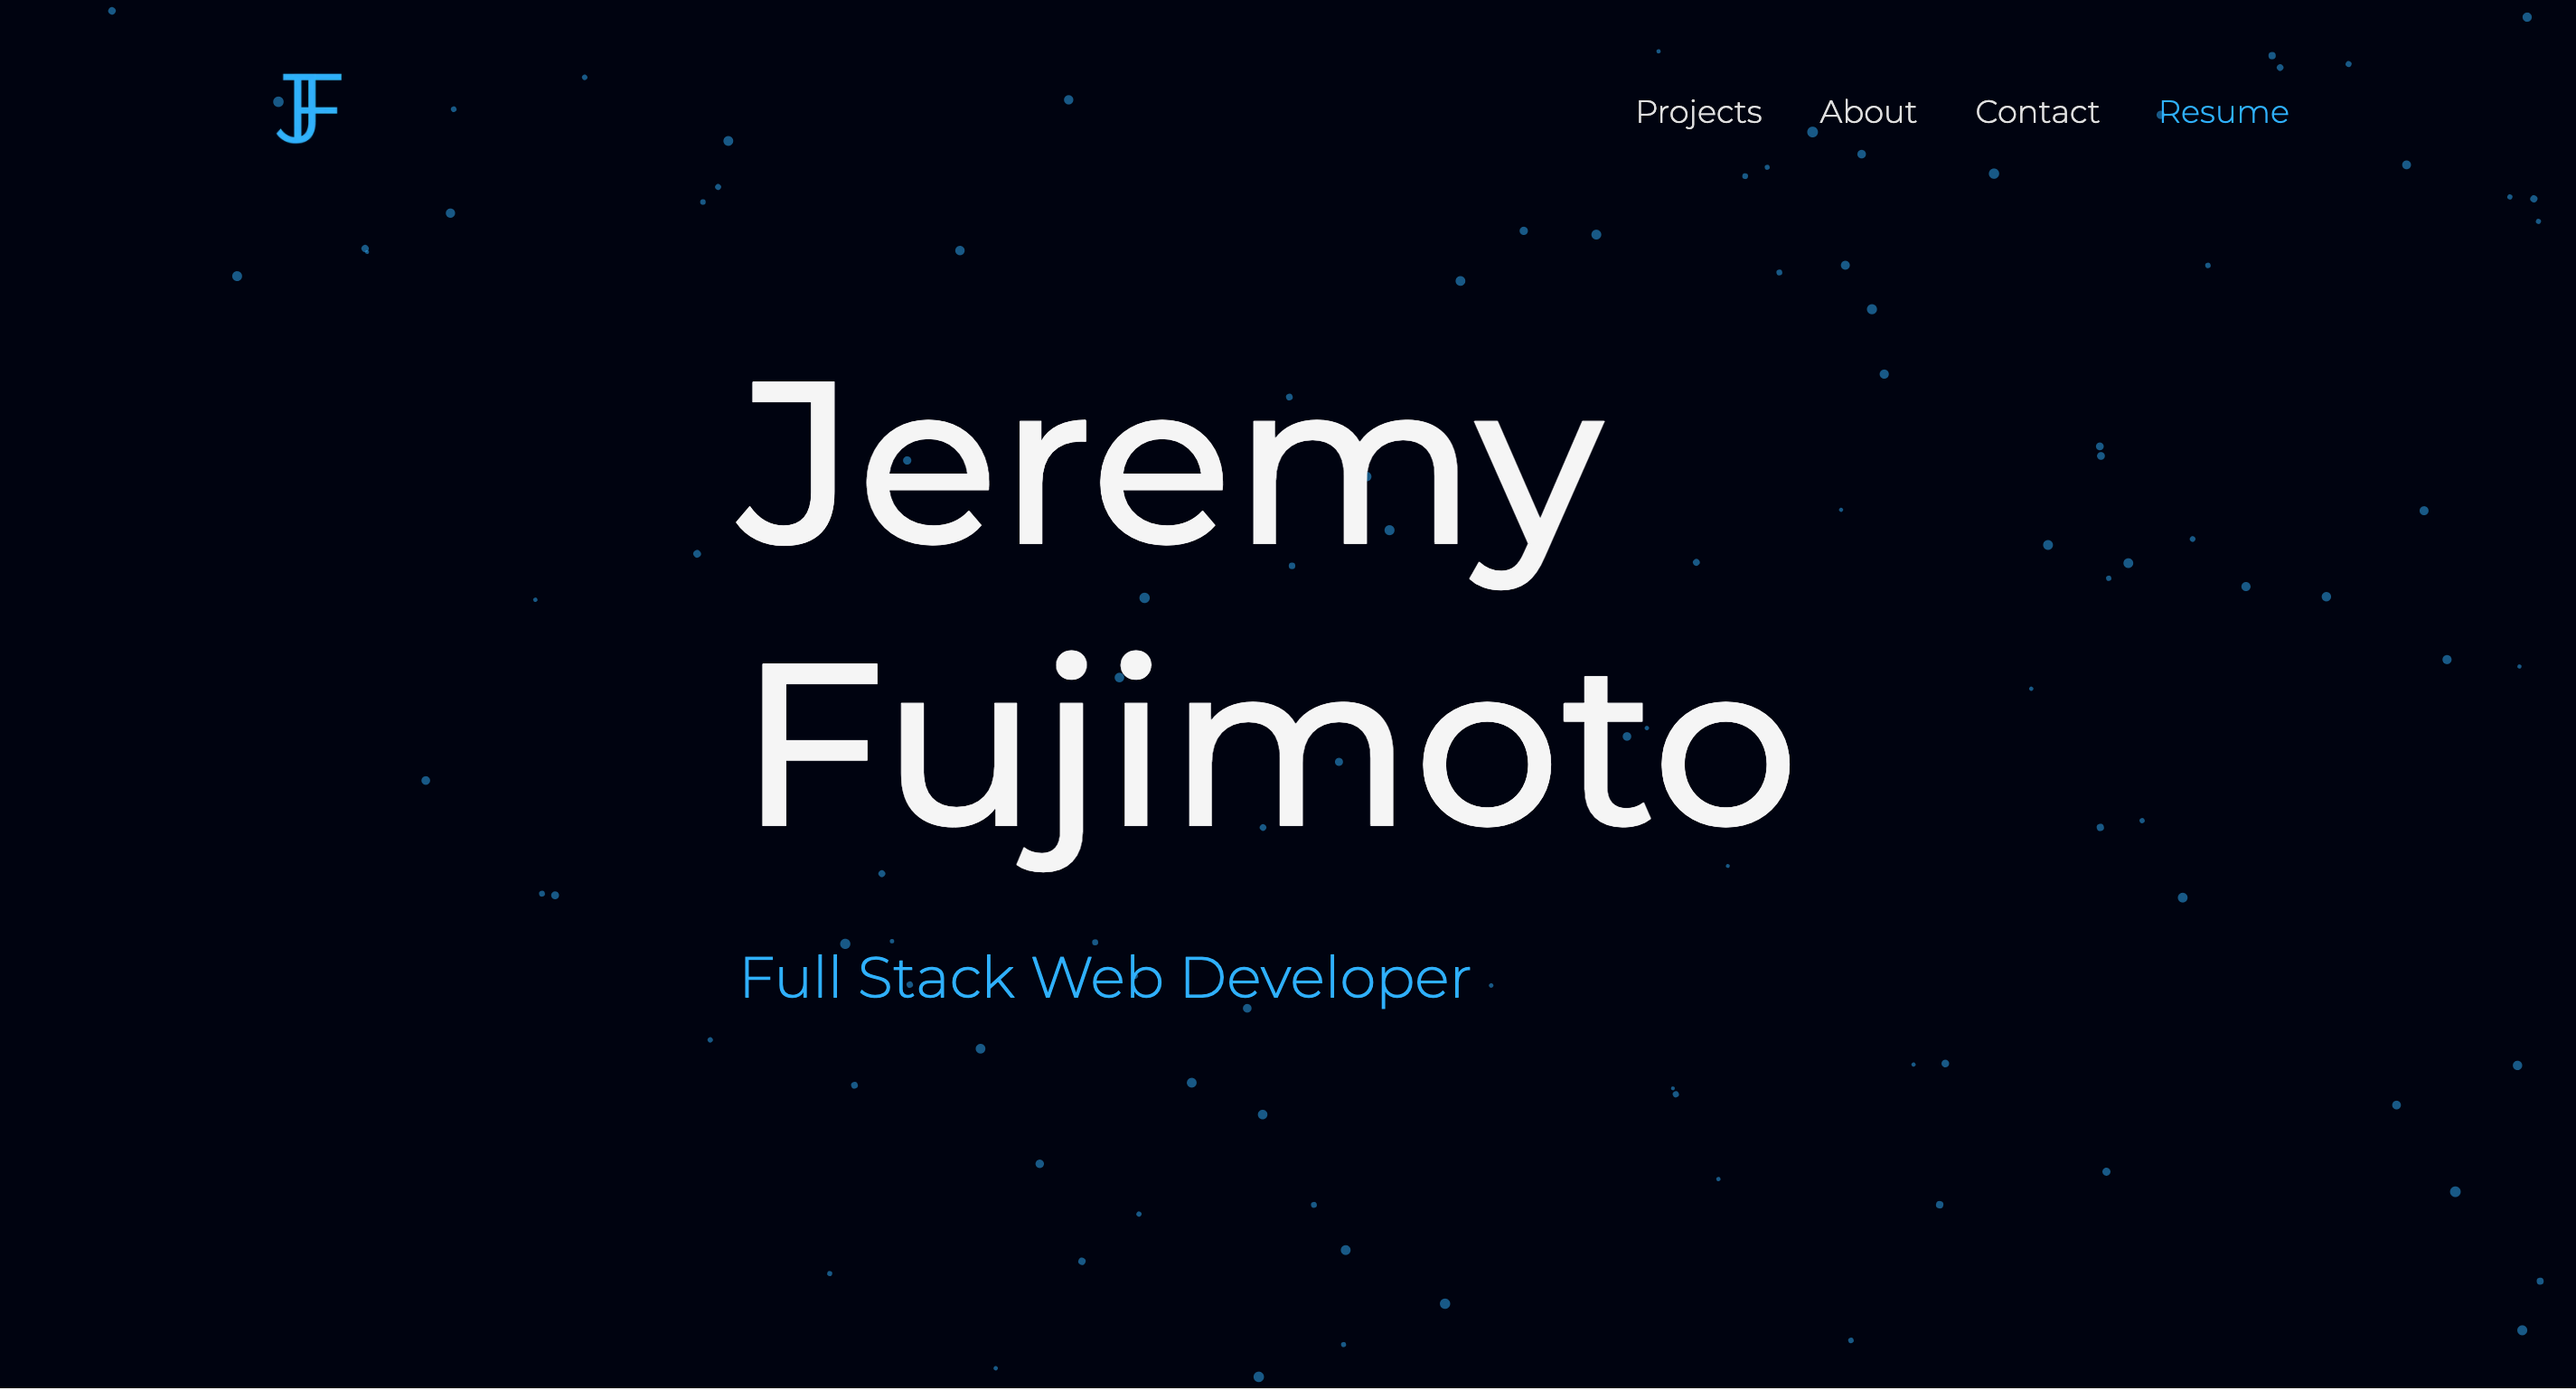
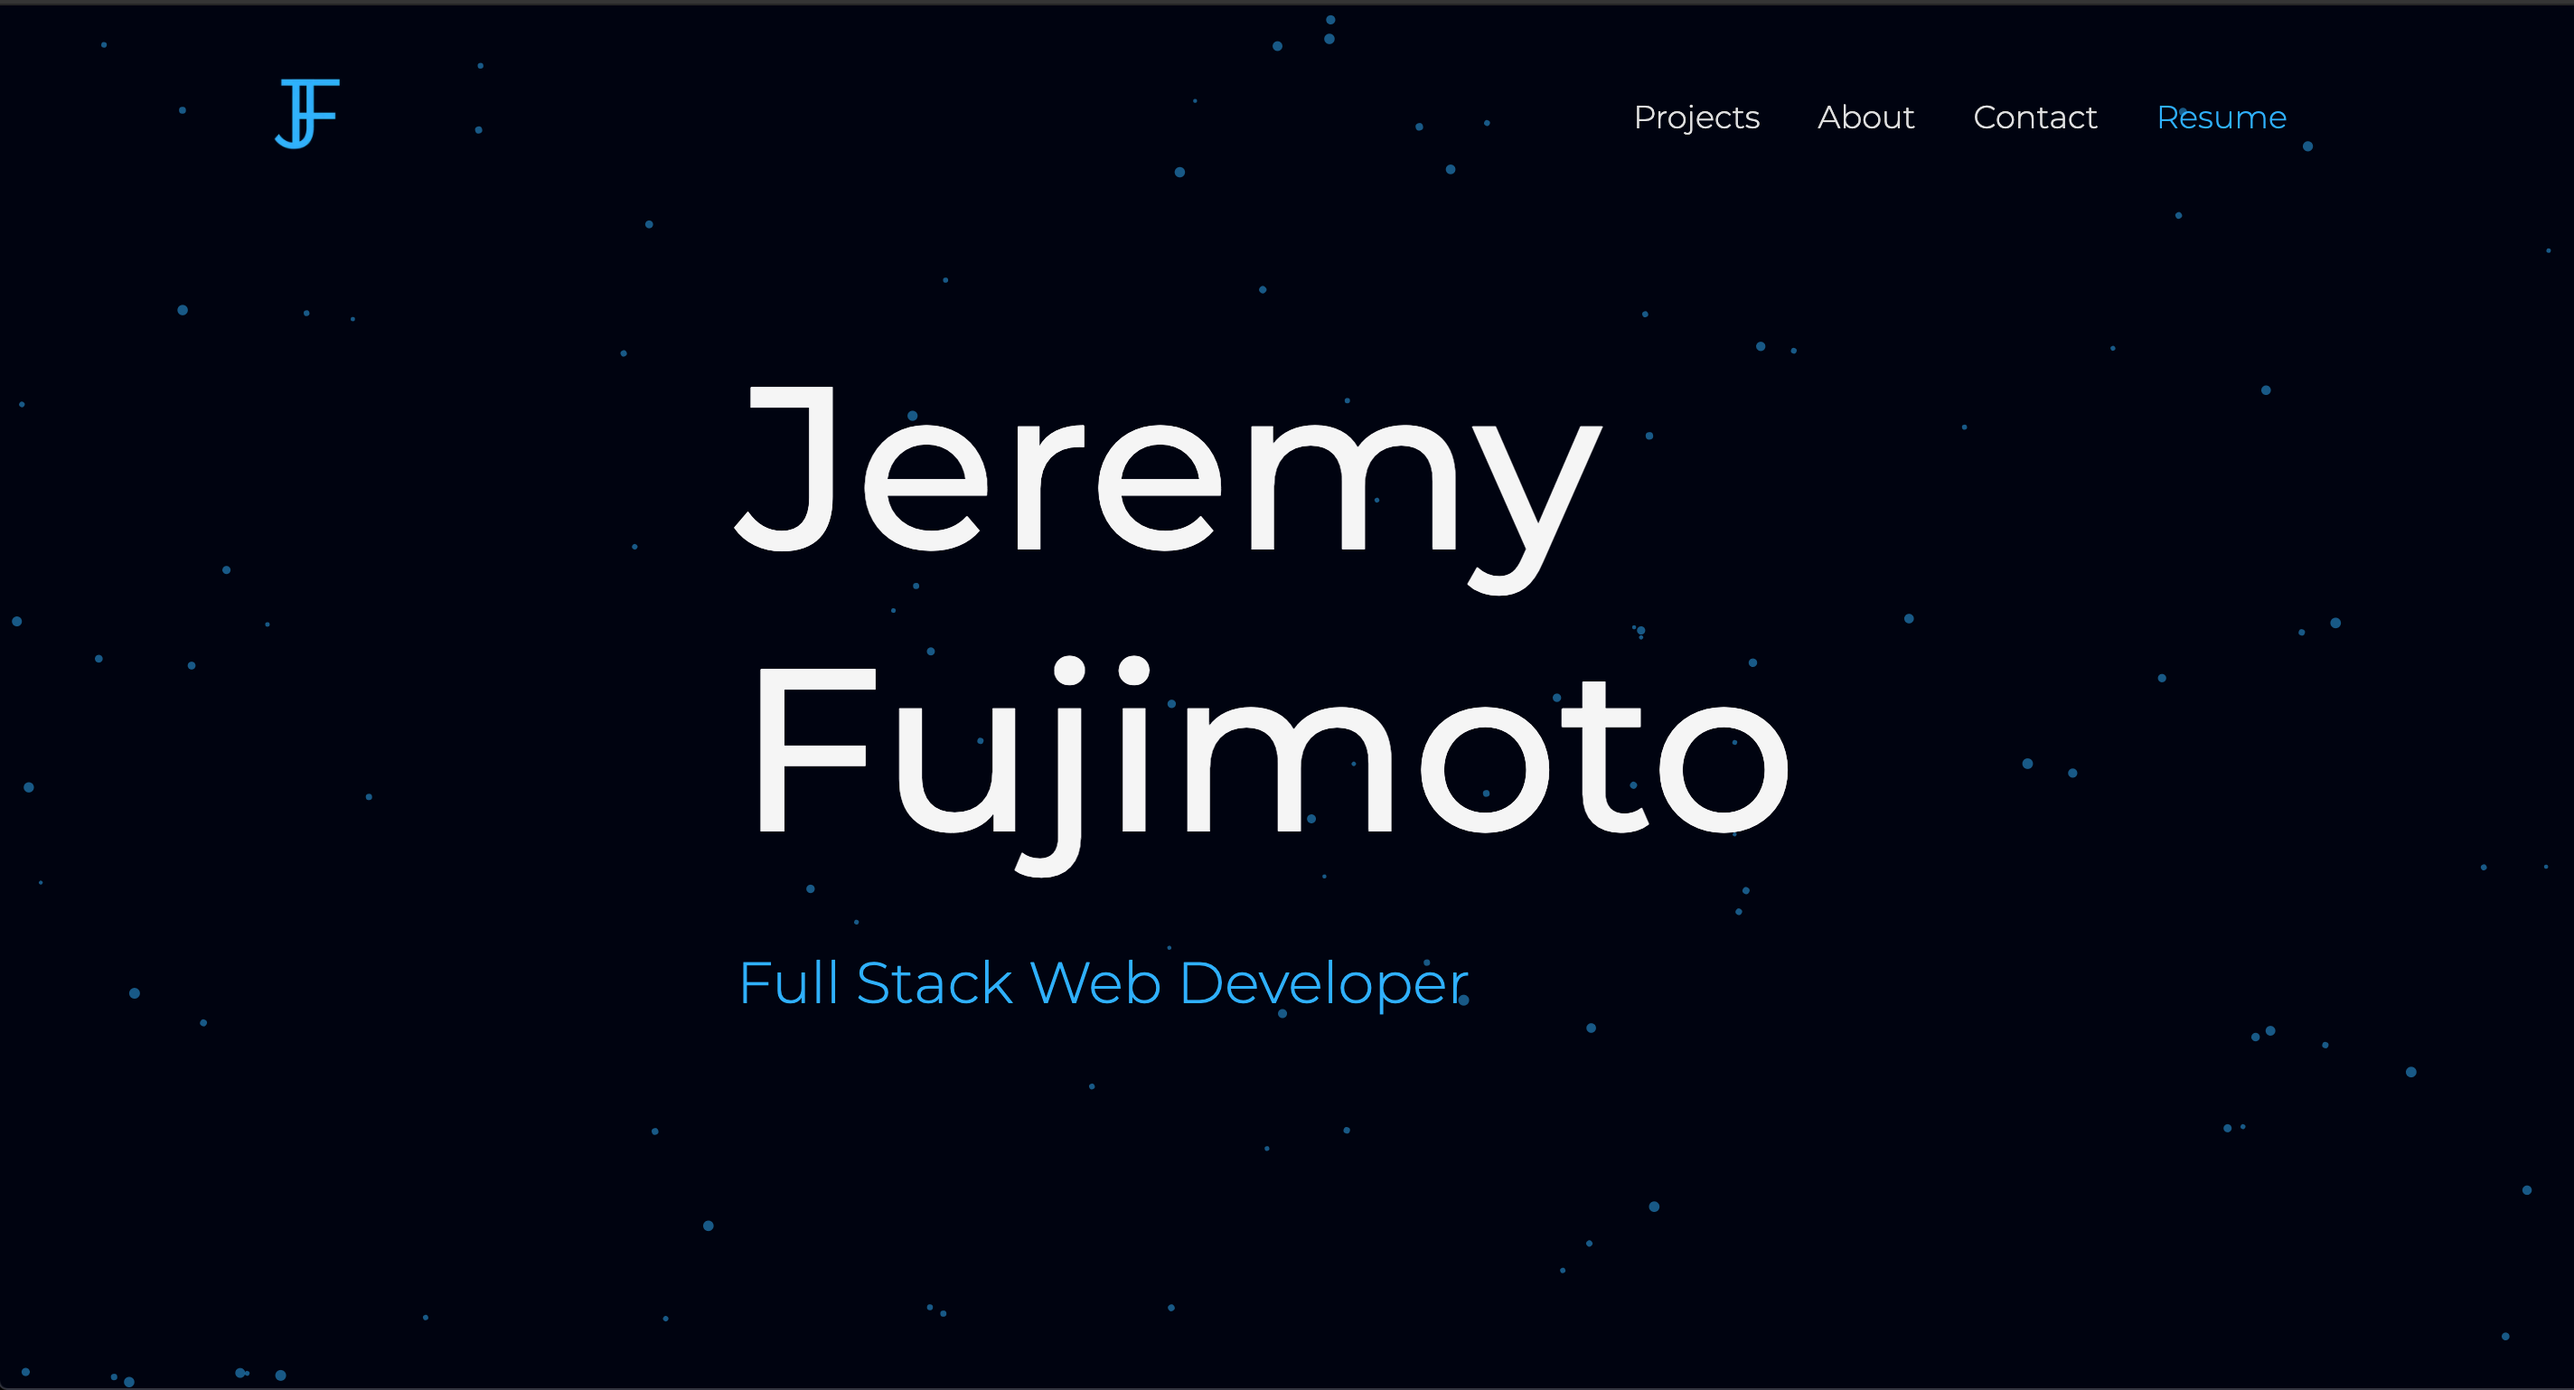
Add new screenshot to head

diff --git a/pages/_app.js b/pages/_app.js
@@ -9,7 +9,7 @@ function MyApp({ Component, pageProps }) {
       <Head>
         <title>Jeremy Fujimoto</title>
         <link rel="shortcut icon" href="/images/JF-logo.png" />
-        {/* <meta name="image" property="og:image" content="/images/homepage.png" /> */}
+        <meta name="image" property="og:image" content="/images/homepage.png" />
       </Head>
       <Component {...pageProps} />
     </>
